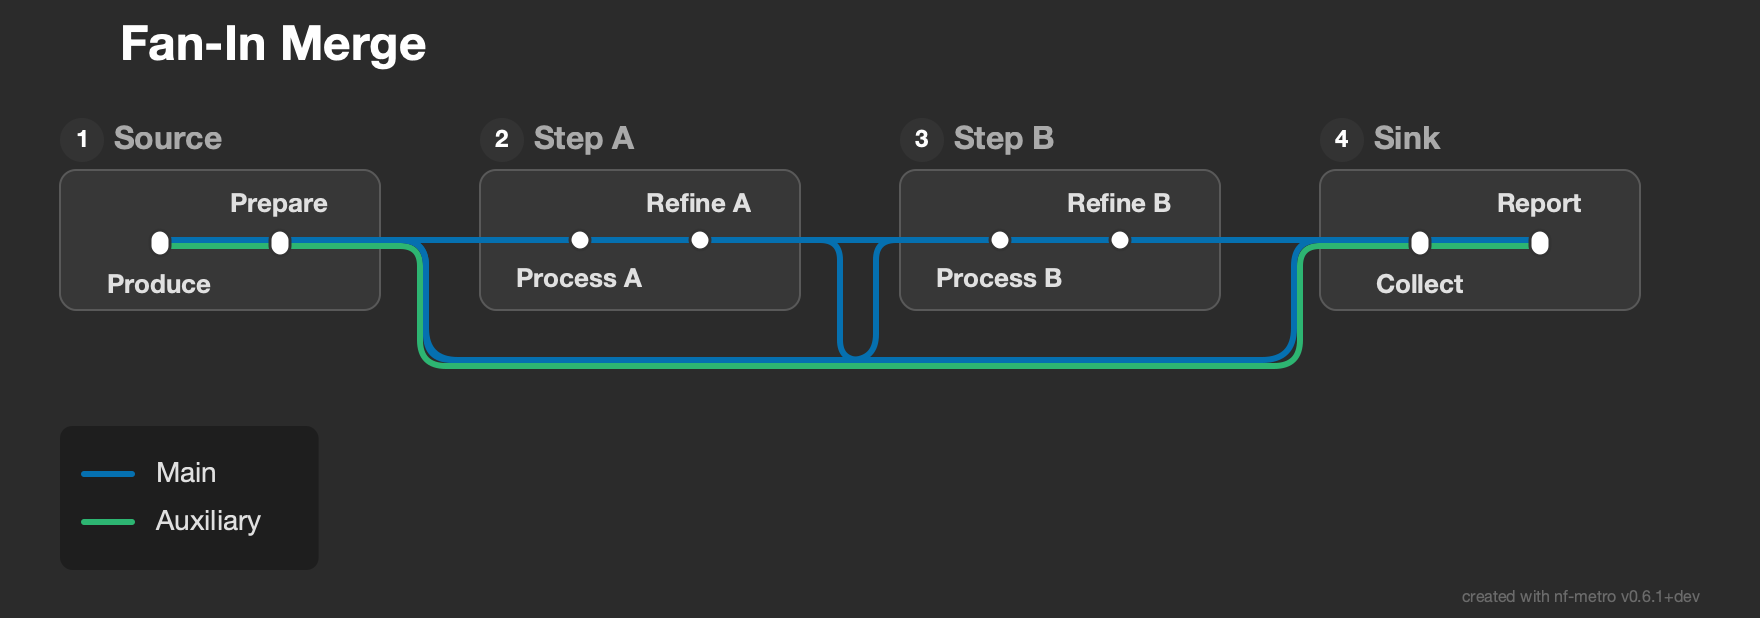
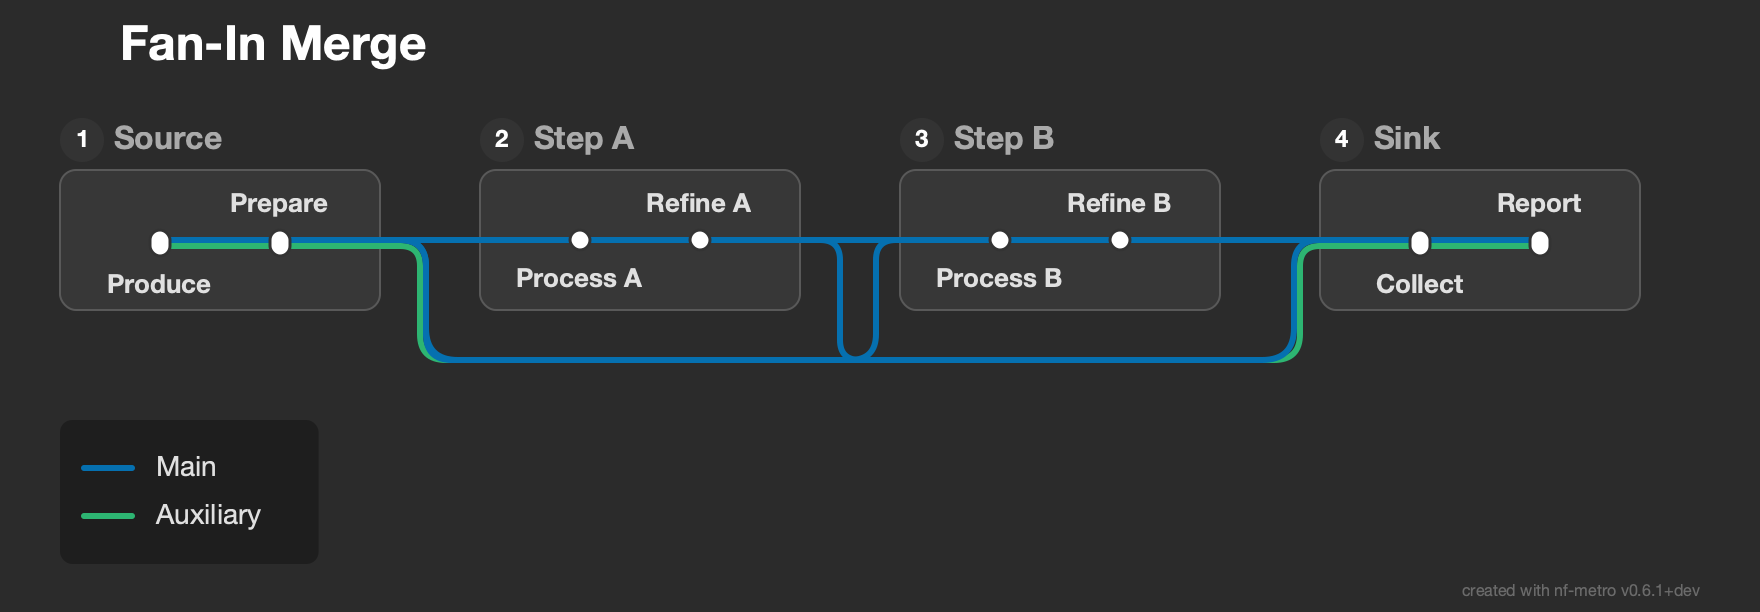
fix: use shared bypass Y for concentric curves
Remove nest_offset from bypass routing so all lines sharing a gap
use the same horizontal Y level. Per-line separation comes from
gap1_extra/gap2_extra X offsets which maintain concentric curve radii
(gap1_x + r = const, gap2_x - r = const). This eliminates visible
gaps at the bottom and top curves where bundled bypass lines
transition between vertical and horizontal segments.

Closes #211

diff --git a/src/nf_metro/layout/routing/core.py b/src/nf_metro/layout/routing/core.py
@@ -13,7 +13,6 @@ from dataclasses import dataclass, field
 
 from nf_metro.layout.constants import (
     BYPASS_CLEARANCE,
-    BYPASS_NEST_STEP,
     COORD_TOLERANCE,
     COORD_TOLERANCE_FINE,
     CROSS_ROW_THRESHOLD,
@@ -311,32 +310,6 @@ def _classify_merge_edges(
     )
 
 
-def _refine_merge_trunk_by(
-    merge: _MergeRouting,
-    bypass_gap_idx: dict[_EdgeKey, tuple[int, int, int, int]],
-    junction_fan_info: dict[_EdgeKey, tuple[int, int]],
-) -> None:
-    """Adjust trunk_by with the actual nest offset from gap indices.
-
-    Must be called after bypass_gap_idx and junction_fan_info are
-    computed, since the trunk's nest offset depends on its gap2 index.
-    Mutates *merge.trunk_by* in place.
-    """
-    for mjid, trunk_src in merge.trunk_source.items():
-        # Find the trunk edge's line_id to build the edge key
-        # (trunk_source stores only the source station, not the line)
-        for ek, idx in bypass_gap_idx.items():
-            if ek[0] == trunk_src and ek[1] == mjid:
-                g2_j = idx[2]
-                fan = junction_fan_info.get(ek)
-                if fan is not None:
-                    nest = g2_j * OFFSET_STEP
-                else:
-                    nest = max(0, g2_j) * BYPASS_NEST_STEP
-                merge.trunk_by[mjid] += nest
-                break
-
-
 # ---------------------------------------------------------------------------
 # Context builder
 # ---------------------------------------------------------------------------
@@ -400,9 +373,6 @@ def _build_routing_context(
     junction_fan_info = _compute_junction_fan_info(
         graph, junction_ids, line_priority, skip_edges=all_exclude
     )
-
-    # Refine merge trunk_by with actual nest offset from gap indices
-    _refine_merge_trunk_by(merge, bypass_gap_idx, junction_fan_info)
 
     return _RoutingCtx(
         graph=graph,
@@ -754,17 +724,13 @@ def _route_bypass(
     ekey = (edge.source, edge.target, edge.line_id)
     g1_j, g1_n, g2_j, g2_n = ctx.bypass_gap_idx.get(ekey, (0, 1, 0, 1))
 
-    # Nest vertically only when bypass routes from DIFFERENT source
-    # columns share the same gap (prevents overlap).  Same-source
-    # bypasses are already separated by gap offsets.
+    # All bypass routes sharing a gap use the same horizontal Y level.
+    # Per-line separation comes from gap1_extra / gap2_extra which
+    # shift corner X positions while maintaining concentric curve radii
+    # (gap1_x + r = const, gap2_x - r = const).
     fan = ctx.junction_fan_info.get(ekey)
-    if fan is not None:
-        nest_offset = g2_j * ctx.offset_step
-    else:
-        nest_idx = max(i, g2_j)
-        nest_offset = nest_idx * BYPASS_NEST_STEP
     base_y = bypass_bottom_y(graph, src_col, tgt_col, BYPASS_CLEARANCE, src_row=src_row)
-    by = base_y + nest_offset
+    by = base_y
 
     base_bypass_offset = ctx.curve_radius + ctx.offset_step
     gap1_extra = g1_j * ctx.offset_step

diff --git a/tests/test_topology_validation.py b/tests/test_topology_validation.py
@@ -692,14 +692,10 @@ class TestMergeRouting:
                     f"seg {k}: x {x1:.0f}->{x2:.0f}"
                 )
 
-    def test_bundle_spacing_preserved(self):
-        """Assemblies trunk and hic_reads bypass should be OFFSET_STEP apart."""
-        from nf_metro.layout.constants import OFFSET_STEP
-
+    def test_bypass_lines_share_horizontal_y(self):
+        """Bundled bypass routes should share the same horizontal Y."""
         graph = _load_and_layout(GENOMEASSEMBLY_FILE)
         routes = self._routes(graph)
-        # Find horizontal bypass Y for assemblies and hic_reads
-        # going toward scaffolding
         bypass_y: dict[str, float] = {}
         for r in routes:
             if not r.is_inter_section:
@@ -712,4 +708,6 @@ class TestMergeRouting:
                     break
         if "assemblies" in bypass_y and "hic_reads" in bypass_y:
             gap = abs(bypass_y["assemblies"] - bypass_y["hic_reads"])
-            assert gap == OFFSET_STEP, f"Bundle gap {gap}px, expected {OFFSET_STEP}px"
+            assert gap == 0, (
+                f"Bypass lines should share Y for concentricity, got {gap}px apart"
+            )